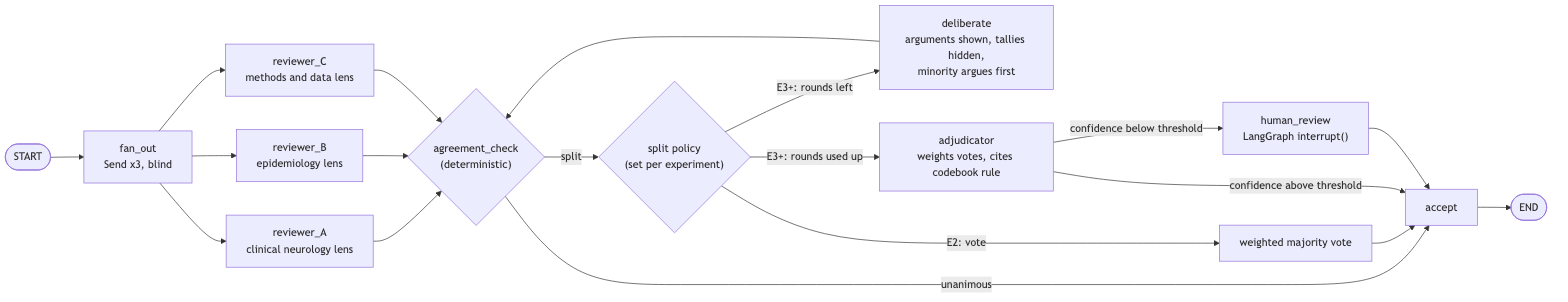
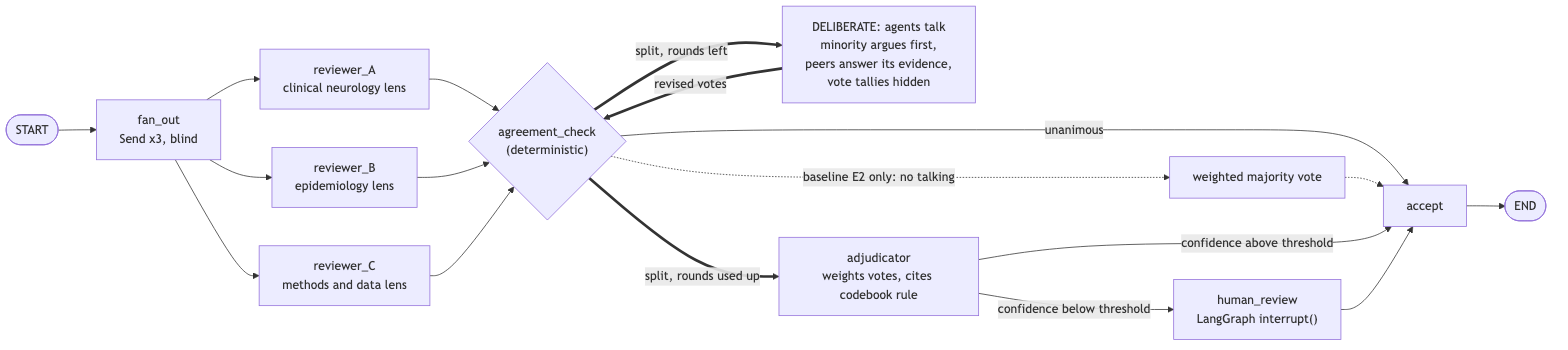
Make agent communication the core of the proposed system
Deliberation is the main resolution path; majority voting is kept only
as the E2 comparison baseline. All diagrams updated to match.

diff --git a/docs/ARCHITECTURE.md b/docs/ARCHITECTURE.md
@@ -24,7 +24,7 @@ The prior system (LangChain + Django REST) used **two sequential agents**: an Ex
 
 | Finding | Design consequence |
 |---|---|
-| Across benchmarks, multi-agent debate rarely beats plain majority voting. Most of debate's gain comes from ensembling several models, not from the debate itself [1]. | **Majority vote over a heterogeneous panel is the default resolver (E2).** Debate is an *experimental condition* (E3) that must earn its place, not an assumption. |
+| Across benchmarks, multi-agent debate rarely beats plain majority voting. Most of debate's gain comes from ensembling several models, not from the debate itself [1]. | **Agents talking (deliberation) stays the core of the proposed system.** It is always compared against a simple voting baseline (E2), so the paper can *show* that the communication adds value. |
 | For LLM abstract screening specifically, soft majority voting across *different model families* was the best strategy and cost <1/14 of adjudication. Debate made models converge and lose diversity, which hurt. Debate mainly helped the weakest model [2]. | **Model diversity is the default** (different vendors per reviewer). Deliberation is limited to split items and keeps the blind-round votes. |
 | Majority pressure suppresses correct minority agents: weak models corrected an incorrect majority only 3.6% of the time, strong models 30–34%. Evidence-based revisions exceeded 90% correction [3]. | **Anti-conformity deliberation:** show arguments without vote tallies, let the minority argue first, and require new evidence for any vote change. Measure flips toward vs away from gold. |
 | In a complex scoping review, two identical LLM runs differed on 94 of 1,131 records, 29 of them eligible. The authors advise against autonomous exclusion [4]. | **Recall guard at screening:** no article is auto-excluded unless *all* reviewers exclude it. Run-to-run consistency becomes a reported metric. |
@@ -53,7 +53,7 @@ flowchart TB
     end
 
     subgraph P2["2. Screening panel (include / exclude)"]
-        SP["3 blind reviewers<br/>+ Consensus subgraph"]
+        SP["3 reviewer agents<br/>blind vote, then talk it out,<br/>then adjudicator"]
     end
 
     subgraph P3["3. Extraction"]
@@ -61,7 +61,7 @@ flowchart TB
     end
 
     subgraph P4["4. Annotation panel (per dimension)"]
-        AP["3 blind reviewers<br/>+ Consensus subgraph (field-level)"]
+        AP["3 reviewer agents per field<br/>blind vote, then talk it out,<br/>then adjudicator"]
     end
 
     subgraph P5["5. Verification and output"]
@@ -103,32 +103,34 @@ flowchart LR
     RB --> AG
     RC --> AG
     AG -->|unanimous| ACC["accept"]
-    AG -->|split| POL{"split policy<br/>(set per experiment)"}
-    POL -->|"E2: vote"| VOTE["weighted majority vote"]
-    VOTE --> ACC
-    POL -->|"E3+: rounds left"| DL["deliberate<br/>arguments shown, tallies hidden,<br/>minority argues first"]
-    DL --> AG
-    POL -->|"E3+: rounds used up"| ADJ["adjudicator<br/>weights votes, cites codebook rule"]
+    AG ==>|"split, rounds left"| DL["DELIBERATE: agents talk<br/>minority argues first,<br/>peers answer its evidence,<br/>vote tallies hidden"]
+    DL ==>|revised votes| AG
+    AG ==>|"split, rounds used up"| ADJ["adjudicator<br/>weights votes, cites codebook rule"]
+    AG -.->|"baseline E2 only: no talking"| VOTE["weighted majority vote"]
+    VOTE -.-> ACC
     ADJ -->|confidence above threshold| ACC
     ADJ -->|confidence below threshold| H["human_review<br/>LangGraph interrupt()"]
     H --> ACC
     ACC --> E([END])
 ```
 
+Thick arrows show the proposed system, where agents talk. The dotted path is the voting-only baseline (E2), used for comparison.
+
 ### 3.2 Communication protocol
 
 Agents do **not** chat freely. They exchange **structured messages** on a shared blackboard (the LangGraph state). This keeps the process auditable and prevents the loudest agent from dominating.
 
 1. **Blind round (independence).** Each reviewer sees only the article and the codebook, never the other votes. This mirrors independent human review and keeps inter-agent agreement statistics meaningful.
-2. **Agreement check (code, not an LLM).** Unanimous → accept. Otherwise the configured split policy applies. For annotation, the check is **per field**, so only disputed dimensions are ever voted on or debated.
-3. **Majority vote (E2, the default).** Weighted by each reviewer's calibration-split accuracy. Prior work shows this is a strong, cheap baseline that debate often fails to beat [1][2].
-4. **Deliberation (E3+, max 2 rounds), designed against conformity [3]:**
+2. **Agreement check (code, not an LLM).** Unanimous → accept. Split → the agents talk it out. For annotation, the check is **per field**, so only disputed dimensions are debated.
+3. **Deliberation: the agents talk to each other (max 2 rounds).** This is the core of the proposed system. It is designed against conformity [3]:
    - Reviewers see the *arguments and evidence* on each side, anonymized, **but not the vote count**, so there is no visible majority to defer to.
    - The **minority reviewer argues first**, and the others must respond to its evidence.
    - **A revision must cite a new evidence span or codebook rule.** A change that cites nothing is rejected and the original vote stands.
    - Blind-round votes are **never overwritten**. Both are stored, so the effect of debate can be measured directly.
-5. **Adjudication.** If the vote is still split, the Adjudicator reads the transcript and produces a *weighting* of the reviewers' positions (not a free override), the codebook rule it relied on, and a confidence score [2].
-6. **Escalation.** Low-confidence adjudications, and anything the Verifier fails, go to a human queue. This is the human-in-the-loop protocol from the paper's recommendations.
+4. **Adjudication.** If the vote is still split, the Adjudicator reads the transcript and produces a *weighting* of the reviewers' positions (not a free override), the codebook rule it relied on, and a confidence score [2].
+5. **Escalation.** Low-confidence adjudications, and anything the Verifier fails, go to a human queue. This is the human-in-the-loop protocol from the paper's recommendations.
+
+**Voting baseline (E2, comparison only).** The same panel with deliberation switched off: split items are settled by majority vote, weighted by each reviewer's calibration-split accuracy. Prior work shows voting is a strong, cheap baseline [1][2], so the talking system has to beat it to justify its cost.
 
 ```mermaid
 sequenceDiagram
@@ -178,8 +180,8 @@ Reviewers should be of reasonably strong capability. Debate is bounded by the st
 
 ### 3.4 Screening vs annotation use different decision rules
 
-- **Screening (recall matters most).** Missing an eligible study is worse than reviewing an extra one. An article is auto-excluded **only if all reviewers exclude it**. Any split goes on to the split policy and never becomes a silent exclusion [4].
-- **Annotation (balanced accuracy).** The standard split policy applies per field.
+- **Screening (recall matters most).** Missing an eligible study is worse than reviewing an extra one. An article is auto-excluded **only if all reviewers exclude it**. Any split goes to deliberation and never becomes a silent exclusion [4].
+- **Annotation (balanced accuracy).** Deliberation runs per disputed field.
 
 ### 3.5 Panel size
 
@@ -282,14 +284,16 @@ class ArticleState(TypedDict):
 
 ### 7.2 Experimental conditions (ablation ladder)
 
-| ID | Condition | Answers the question |
-|---|---|---|
-| E0 | Prior 2-agent system (existing results) | baseline |
-| E1 | Single reviewer agent, new codebook | Does the codebook/prompting alone help? |
-| E2 | 3-agent heterogeneous panel, weighted majority vote, **no talking** | Value of redundancy. Prior work predicts this is a strong baseline [1][2]. |
-| E3 | E2 + anti-conformity deliberation on split items | Does talking add anything beyond voting on *nuanced ADRD annotation*? This is the key research question. |
-| E4 | E3 + Adjudicator | Value of a senior arbiter |
-| E5 | E4 + human review of escalations | Accuracy vs. human effort trade-off |
+**E5 is the proposed system.** E0–E4 are the comparisons that show what each part contributes.
+
+| ID | Condition | Role | Answers the question |
+|---|---|---|---|
+| E0 | Prior 2-agent system (existing results) | baseline | Where we started |
+| E1 | Single reviewer agent, new codebook | baseline | Does the codebook/prompting alone help? |
+| E2 | 3-agent heterogeneous panel, weighted majority vote, **no talking** | key baseline | Value of multiple agents without communication. Prior work predicts this is strong [1][2]. |
+| E3 | E2 + agents talk (anti-conformity deliberation on split items) | ablation | **Does agent communication beat voting on nuanced ADRD annotation?** This is the key research question. |
+| E4 | E3 + Adjudicator | ablation | Value of a senior arbiter |
+| **E5** | **E4 + human review of escalations** | **proposed system** | Final accuracy vs. human effort |
 
 Crossed factors: **heterogeneous vs single-model (persona-only) panel**, **panel size 3 / 5 / 7**, **abstract-only vs triage + full text**, **specialist-per-dimension vs generalist annotators**.
 
@@ -297,7 +301,8 @@ Prior work found debate did not beat voting on general tasks and on binary scree
 
 ```mermaid
 flowchart LR
-    E0["E0<br/>2-agent baseline"] --> E1["E1<br/>single agent"] --> E2["E2<br/>panel + vote"] --> E3["E3<br/>+ deliberation"] --> E4["E4<br/>+ adjudicator"] --> E5["E5<br/>+ human on escalations"]
+    E0["E0<br/>2-agent baseline"] --> E1["E1<br/>single agent"] --> E2["E2<br/>panel + vote<br/>(no talking)"] --> E3["E3<br/>+ agents talk"] --> E4["E4<br/>+ adjudicator"] --> E5["E5 PROPOSED<br/>+ human on escalations"]
+    style E5 stroke-width:3px
 ```
 
 ---
